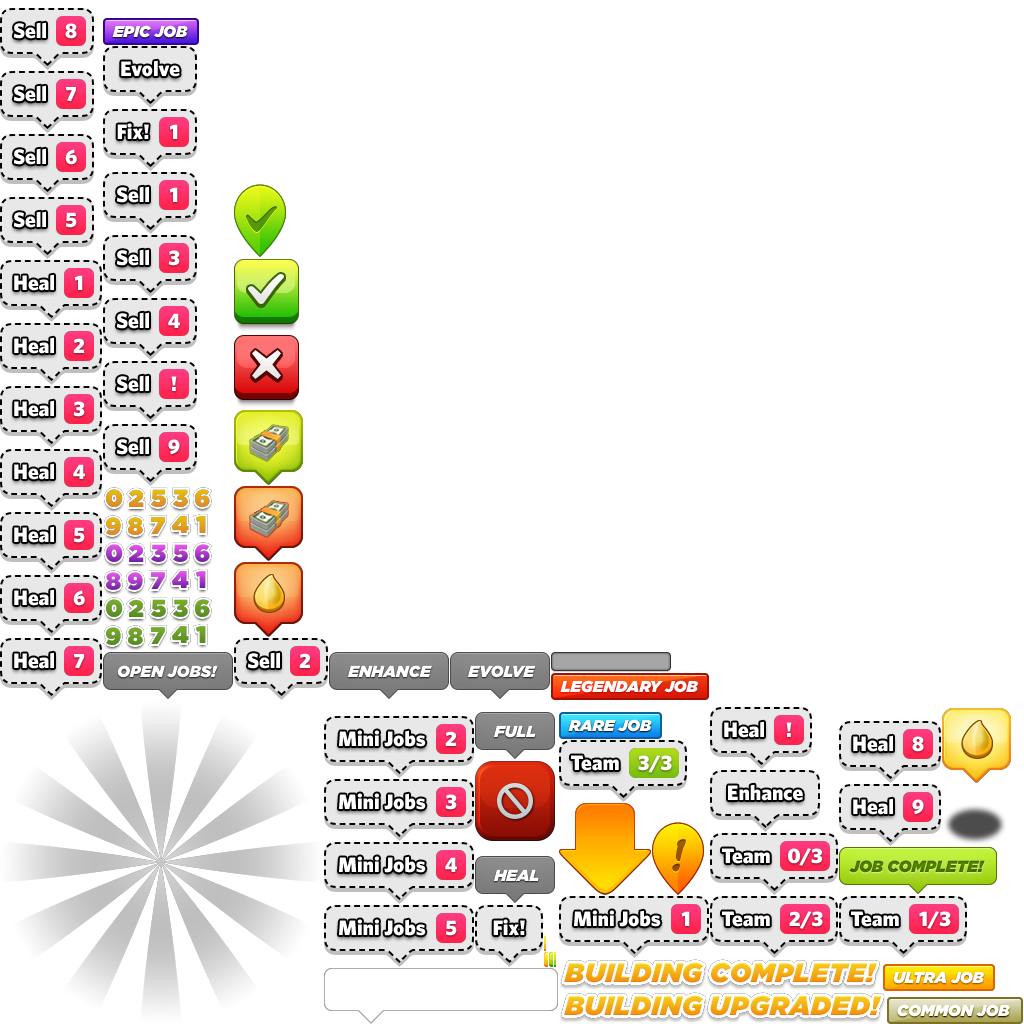
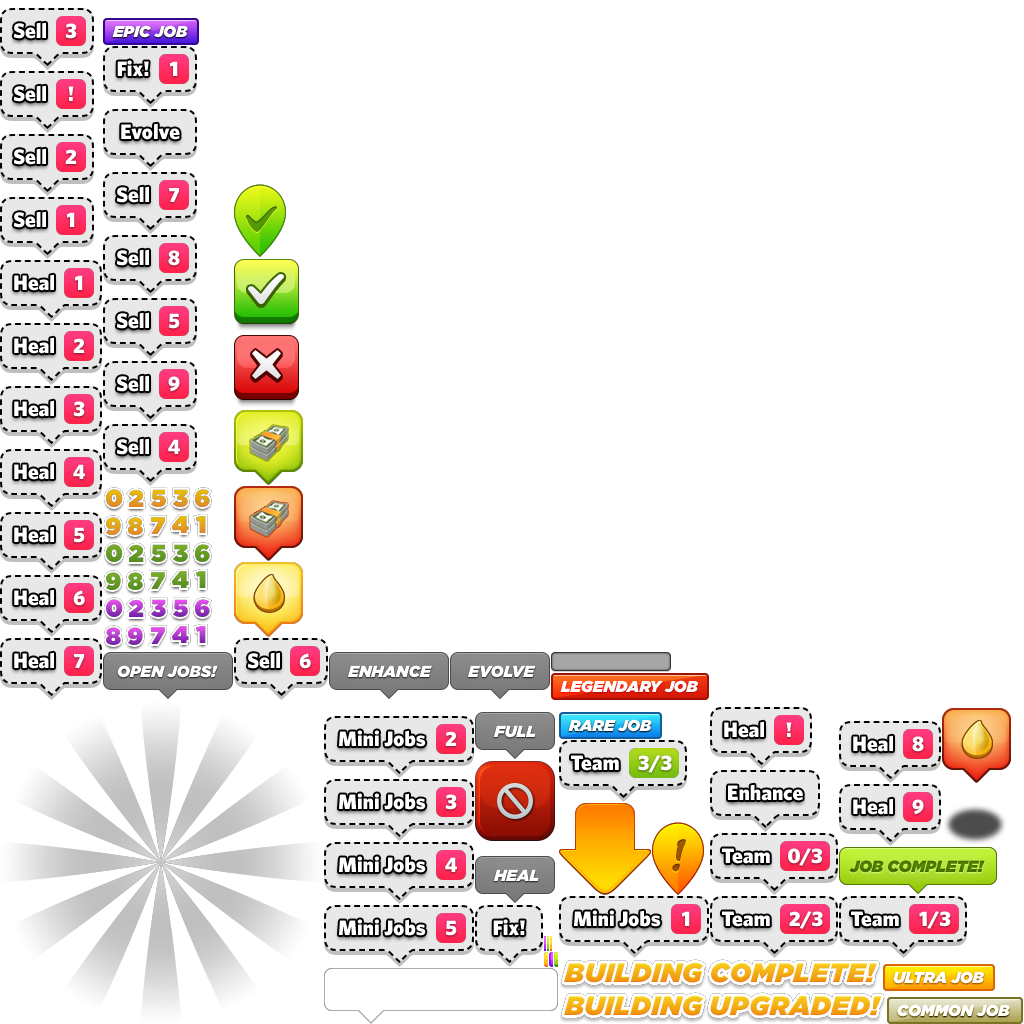
Changed building progress bars from the Menu atlas to the City atlas; fixed some issues with fonts in the menu atlas

diff --git a/Assets/Code/MobSquad/City/Util/MSUnit.cs b/Assets/Code/MobSquad/City/Util/MSUnit.cs
@@ -1,4 +1,4 @@
-	using UnityEngine;
+using UnityEngine;
 using System.Collections;
 using System.Collections.Generic;
 using com.lvl6.proto;
@@ -288,7 +288,10 @@ public class MSUnit : MonoBehaviour, MSPoolable {
 		hasSprite = false;
 		yield return StartCoroutine(MSSpriteUtil.instance.SetUnitAnimator(this));
 		alpha = anim.runtimeAnimatorController != null ? 1 : 0;
-		shadow.color = Color.white;
+		if (shadow != null)
+		{
+			shadow.color = Color.white;
+		}
 		ResetAnimation();
 		hasSprite = true;
 		SetAnimation(AnimationType.IDLE);

diff --git a/Assets/NGUI/Scripts/Editor/UILabelInspector.cs b/Assets/NGUI/Scripts/Editor/UILabelInspector.cs
@@ -93,6 +93,8 @@ public class UILabelInspector : UIWidgetInspector
 				NGUISettings.ambigiousFont = fnt.objectReferenceValue;
 				isValid = true;
 			}
+
+
 		}
 		else
 		{
